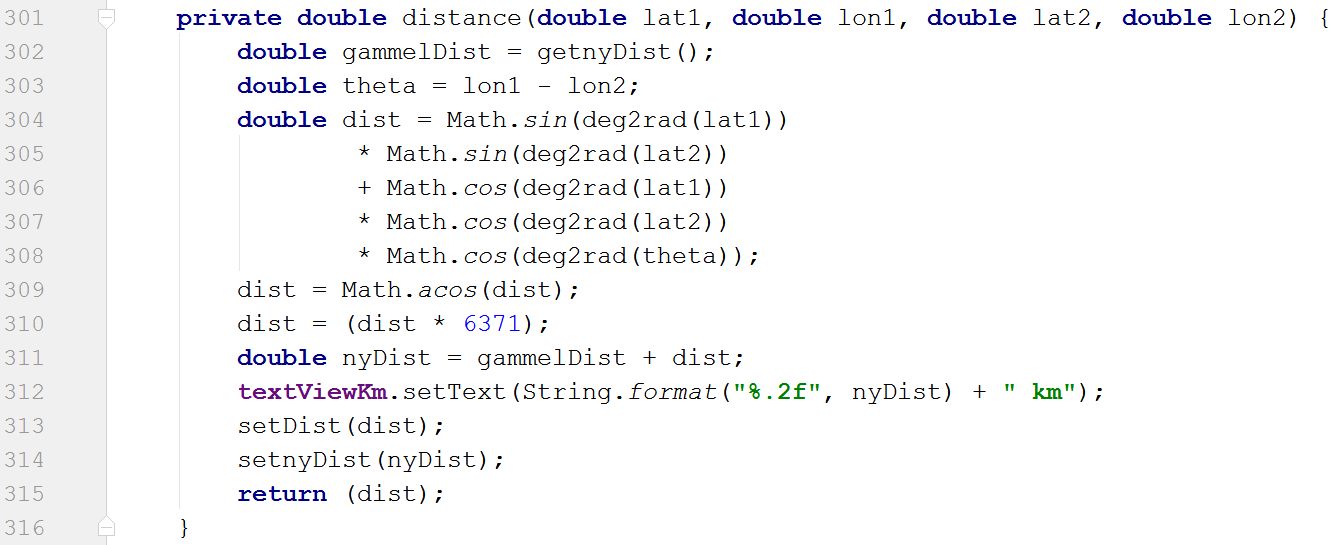
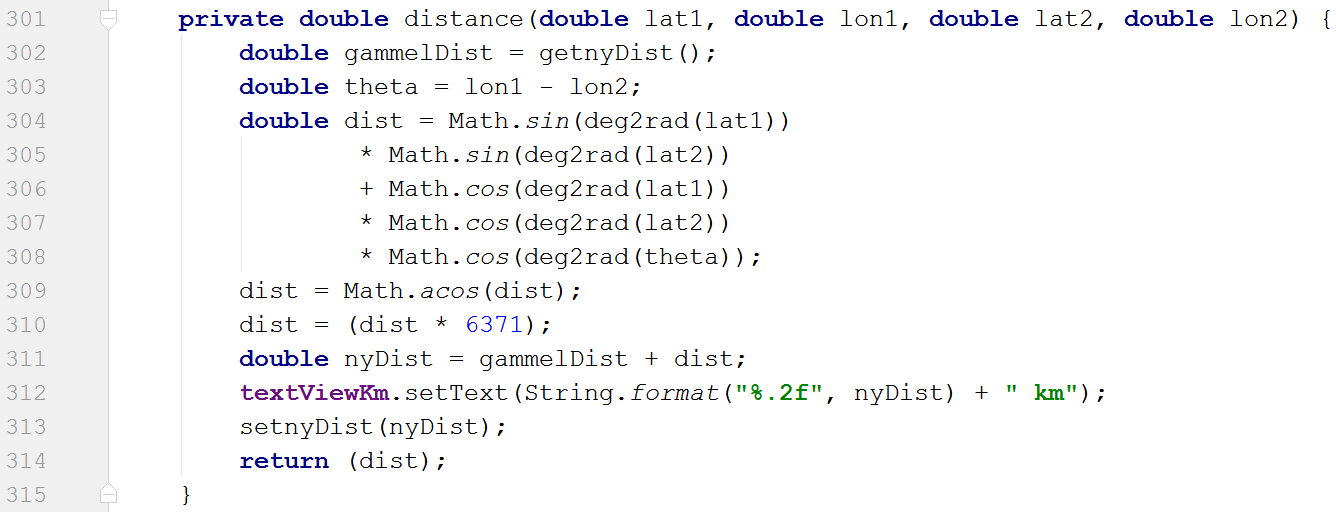
Tilpasset billeder under implementering

Changed region(s): [[0.1228, 0.0, 1.0, 0.9375], [0.0, 0.0, 0.0307, 0.7812], [0.0, 0.8125, 0.0307, 1.0]]

diff --git a/APP/AndroidLoginAndRegistration/app/src/main/java/info/androidhive/loginandregistration/activity/TraeningController.java b/APP/AndroidLoginAndRegistration/app/src/main/java/info/androidhive/loginandregistration/activity/TraeningController.java
@@ -51,7 +51,7 @@ public class TraeningController extends AppCompatActivity {
     TextView textViewTimer, textViewKm;
     Button start, stop;// reset;
     long MillisecondTime, StartTime, TimeBuff, UpdateTime = 0L;
-    int Time, Seconds, Minutes, MilliSeconds;
+    int Hours, Seconds, Minutes, MilliSeconds;
     String medlemsid;
     Handler handler;
     PopupWindow myPopUp;
@@ -76,10 +76,11 @@ public Runnable runnable = new Runnable() {
         UpdateTime = TimeBuff + MillisecondTime;
         Seconds = (int) (UpdateTime / 1000);
         Minutes = Seconds / 60;
+        Hours   = Minutes /60;
         Seconds = Seconds % 60;
-        Time = Minutes /60;
+        Minutes = Minutes % 60;
 
-        textViewTimer.setText(" " +Time + ":" + "" + Minutes + ":" + String.format("%02d", Seconds));
+        textViewTimer.setText(" " +Hours + ":" + "" + Minutes + ":" + String.format("%02d", Seconds));
 
             handler.postDelayed(this, 0);
             Long m = getMinutes();
@@ -310,7 +311,6 @@ public Runnable runnable = new Runnable() {
         dist = (dist * 6371);
         double nyDist = gammelDist + dist;
         textViewKm.setText(String.format("%.2f", nyDist) + " km");
-        setDist(dist);
         setnyDist(nyDist);
         return (dist);
     }
